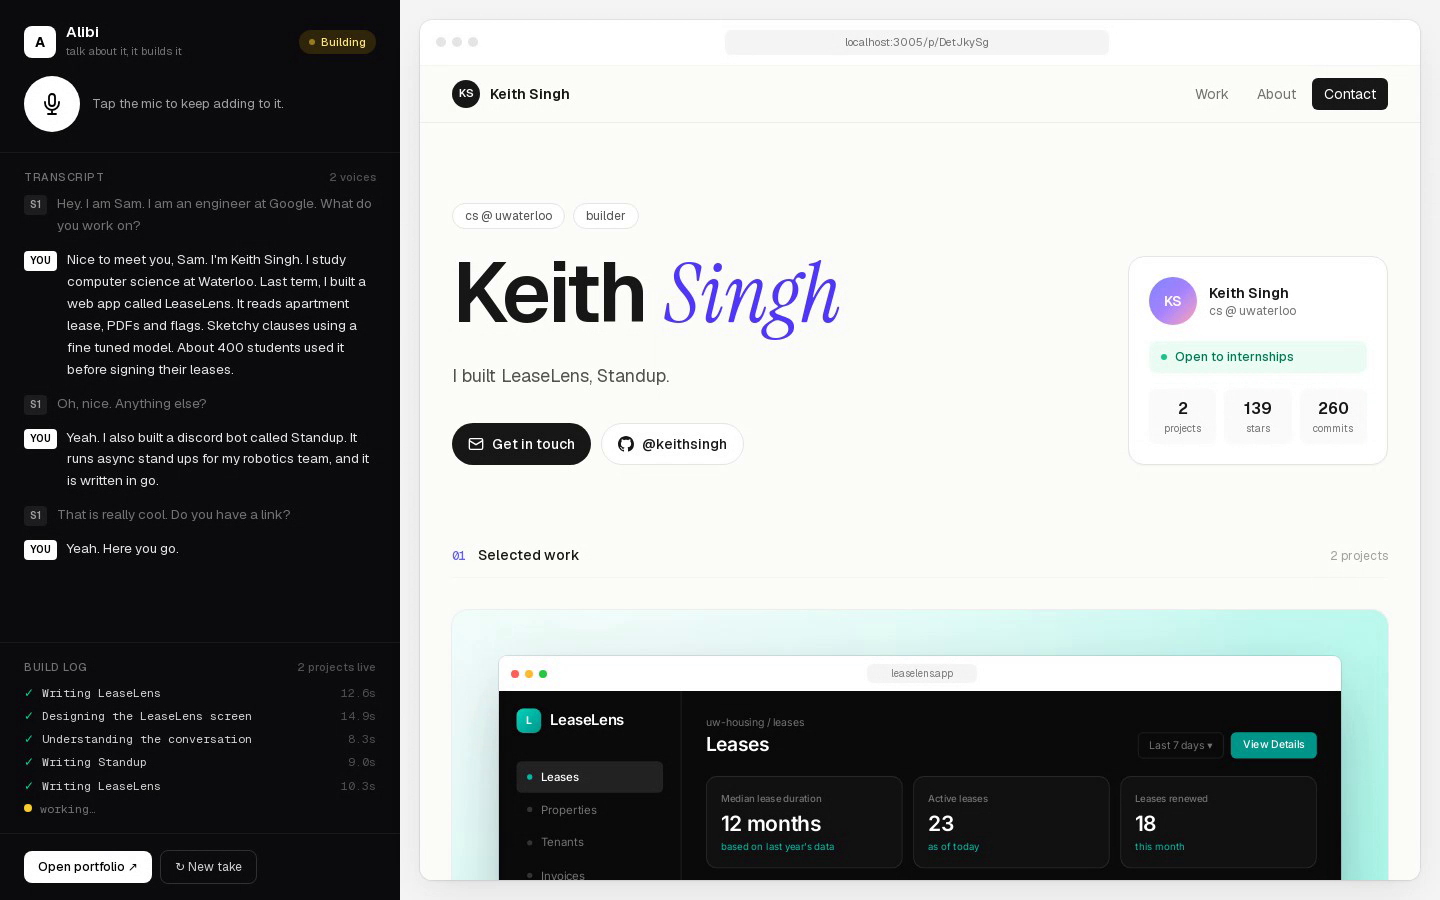
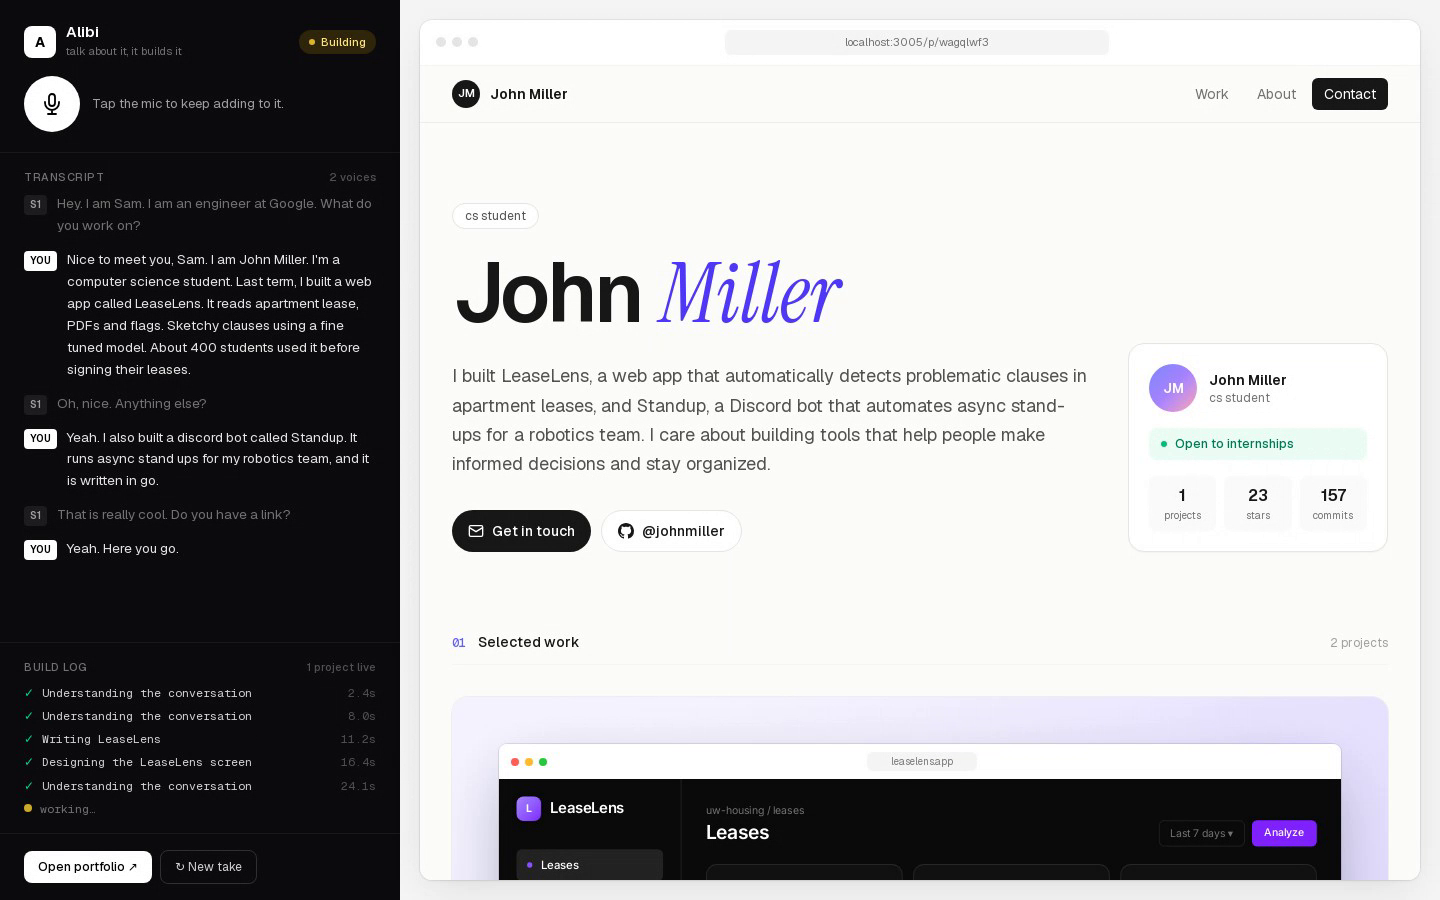
Use a generic persona in demos and sample data
Demo video, README example and capture-screen hint use 'John Miller, a CS
student' instead of a real name and school; sample portfolio and mock kits
drop Waterloo-specific details.

diff --git a/web/lib/fixtures.ts b/web/lib/fixtures.ts
@@ -17,7 +17,7 @@ const SHIPIT_MOCK = `
   </aside>
   <main class="flex-1 p-8">
     <div class="mb-6 flex items-end justify-between">
-      <div><div class="text-sm text-neutral-500">uw-robotics / website</div><h1 class="text-2xl font-semibold text-white">Deployments</h1></div>
+      <div><div class="text-sm text-neutral-500">robotics-club / website</div><h1 class="text-2xl font-semibold text-white">Deployments</h1></div>
       <div class="rounded-md bg-white px-4 py-2 text-sm font-medium text-black">Redeploy</div>
     </div>
     <div class="mb-6 grid grid-cols-3 gap-4">
@@ -45,9 +45,9 @@ const STUDYMATCH_MOCK = `
     <div class="mb-1 text-sm text-stone-500">Fall 2026 · 5 courses</div>
     <h1 class="mb-6 text-3xl font-bold">Your matches this week</h1>
     <div class="grid grid-cols-3 gap-5">
-      <div class="rounded-2xl bg-white p-5 shadow-sm"><div class="mb-3 flex items-center justify-between"><span class="rounded-full bg-indigo-50 px-3 py-1 text-xs font-semibold text-indigo-700">CS 341</span><span class="text-sm font-semibold text-emerald-600">94% match</span></div><div class="mb-1 text-lg font-semibold">Algorithms grind</div><div class="mb-4 text-sm text-stone-500">Tue + Thu · DC library · 7pm</div><div class="flex -space-x-2"><div class="h-8 w-8 rounded-full border-2 border-white bg-rose-300"></div><div class="h-8 w-8 rounded-full border-2 border-white bg-amber-300"></div><div class="h-8 w-8 rounded-full border-2 border-white bg-sky-300"></div><div class="flex h-8 w-8 items-center justify-center rounded-full border-2 border-white bg-stone-100 text-xs">+2</div></div><div class="mt-5 rounded-lg bg-indigo-600 py-2 text-center text-sm font-medium text-white">Join group</div></div>
+      <div class="rounded-2xl bg-white p-5 shadow-sm"><div class="mb-3 flex items-center justify-between"><span class="rounded-full bg-indigo-50 px-3 py-1 text-xs font-semibold text-indigo-700">CS 341</span><span class="text-sm font-semibold text-emerald-600">94% match</span></div><div class="mb-1 text-lg font-semibold">Algorithms grind</div><div class="mb-4 text-sm text-stone-500">Tue + Thu · main library · 7pm</div><div class="flex -space-x-2"><div class="h-8 w-8 rounded-full border-2 border-white bg-rose-300"></div><div class="h-8 w-8 rounded-full border-2 border-white bg-amber-300"></div><div class="h-8 w-8 rounded-full border-2 border-white bg-sky-300"></div><div class="flex h-8 w-8 items-center justify-center rounded-full border-2 border-white bg-stone-100 text-xs">+2</div></div><div class="mt-5 rounded-lg bg-indigo-600 py-2 text-center text-sm font-medium text-white">Join group</div></div>
       <div class="rounded-2xl bg-white p-5 shadow-sm"><div class="mb-3 flex items-center justify-between"><span class="rounded-full bg-amber-50 px-3 py-1 text-xs font-semibold text-amber-700">MATH 239</span><span class="text-sm font-semibold text-emerald-600">88% match</span></div><div class="mb-1 text-lg font-semibold">Graph theory pset crew</div><div class="mb-4 text-sm text-stone-500">Sun · Discord · 3pm</div><div class="flex -space-x-2"><div class="h-8 w-8 rounded-full border-2 border-white bg-lime-300"></div><div class="h-8 w-8 rounded-full border-2 border-white bg-violet-300"></div><div class="h-8 w-8 rounded-full border-2 border-white bg-orange-300"></div></div><div class="mt-5 rounded-lg bg-indigo-600 py-2 text-center text-sm font-medium text-white">Join group</div></div>
-      <div class="rounded-2xl bg-white p-5 shadow-sm"><div class="mb-3 flex items-center justify-between"><span class="rounded-full bg-rose-50 px-3 py-1 text-xs font-semibold text-rose-700">STAT 230</span><span class="text-sm font-semibold text-amber-600">71% match</span></div><div class="mb-1 text-lg font-semibold">Midterm review</div><div class="mb-4 text-sm text-stone-500">Wed · MC 2034 · 6pm</div><div class="flex -space-x-2"><div class="h-8 w-8 rounded-full border-2 border-white bg-teal-300"></div><div class="h-8 w-8 rounded-full border-2 border-white bg-pink-300"></div></div><div class="mt-5 rounded-lg border border-stone-200 py-2 text-center text-sm font-medium">Request invite</div></div>
+      <div class="rounded-2xl bg-white p-5 shadow-sm"><div class="mb-3 flex items-center justify-between"><span class="rounded-full bg-rose-50 px-3 py-1 text-xs font-semibold text-rose-700">STAT 230</span><span class="text-sm font-semibold text-amber-600">71% match</span></div><div class="mb-1 text-lg font-semibold">Midterm review</div><div class="mb-4 text-sm text-stone-500">Wed · Room 2034 · 6pm</div><div class="flex -space-x-2"><div class="h-8 w-8 rounded-full border-2 border-white bg-teal-300"></div><div class="h-8 w-8 rounded-full border-2 border-white bg-pink-300"></div></div><div class="mt-5 rounded-lg border border-stone-200 py-2 text-center text-sm font-medium">Request invite</div></div>
     </div>
     <div class="mt-6 flex items-center gap-3 rounded-xl bg-white p-4 text-sm shadow-sm"><span class="text-lg">⚡</span><span>Matching runs every Sunday at 9pm based on your calendar and course load.</span><span class="ml-auto text-indigo-600">Edit availability →</span></div>
   </main>
@@ -81,14 +81,14 @@ export const SAMPLE_PORTFOLIO: Portfolio = {
   hero: {
     name: "Sam Rivera",
     handle: "samrivera",
-    roles: ["cs @ uwaterloo", "builder", "occasional designer"],
+    roles: ["cs student", "builder", "occasional designer"],
     bio: "I build small tools that people actually keep using: a deploy CLI six student clubs run on, a study-group matcher that made it through a whole semester, and an iOS app that tells you what to cook from a photo of your fridge.",
     currently: [
       "shipping shipit v2 with monorepo support",
       "ta for cs 136",
       "looking for summer 2027 swe internships",
     ],
-    location: "Waterloo, ON",
+    location: "Toronto, ON",
   },
   skills: ["TypeScript", "Go", "Python", "React", "Postgres", "Docker", "PyTorch", "Swift"],
   projects: {

diff --git a/web/lib/mock-kits.ts b/web/lib/mock-kits.ts
@@ -209,7 +209,7 @@ export function renderMock(spec: MockSpec): string {
 // Reference specs: shown on /preview/kits and used as the example in the agent prompt.
 export const KIT_SAMPLES: Record<MockSpec["kit"], MockSpec> = {
   dashboard: {
-    kit: "dashboard", theme: "dark", accent: "emerald", appName: "shipit", context: "uw-robotics / website", heading: "Deployments", action: "Redeploy", user: "sam",
+    kit: "dashboard", theme: "dark", accent: "emerald", appName: "shipit", context: "robotics-club / website", heading: "Deployments", action: "Redeploy", user: "sam",
     nav: ["Deployments", "Projects", "Previews", "Cache", "Settings"],
     stats: [{ label: "Median build", value: "41s", note: "−54% vs no cache" }, { label: "Cache hit rate", value: "87%", note: "last 7 days" }, { label: "Deploys this week", value: "23", note: "6 previews open" }],
     items: [
@@ -225,9 +225,9 @@ export const KIT_SAMPLES: Record<MockSpec["kit"], MockSpec> = {
     nav: ["My groups", "Browse", "Schedule"],
     stats: [{ label: "groups formed", value: "58", note: "" }, { label: "signups", value: "312", note: "" }, { label: "weekly active", value: "140", note: "" }],
     items: [
-      { title: "Algorithms grind", subtitle: "Tue + Thu · DC library · 7pm", meta: "94% match", tag: "CS 341", status: "good" },
+      { title: "Algorithms grind", subtitle: "Tue + Thu · main library · 7pm", meta: "94% match", tag: "CS 341", status: "good" },
       { title: "Graph theory pset crew", subtitle: "Sun · Discord · 3pm", meta: "88% match", tag: "MATH 239", status: "good" },
-      { title: "Midterm review", subtitle: "Wed · MC 2034 · 6pm", meta: "71% match", tag: "STAT 230", status: "warn" },
+      { title: "Midterm review", subtitle: "Wed · Room 2034 · 6pm", meta: "71% match", tag: "STAT 230", status: "warn" },
     ],
     callout: "Matching runs every Sunday at 9pm based on your calendar and course load.",
   },
@@ -256,7 +256,7 @@ export const KIT_SAMPLES: Record<MockSpec["kit"], MockSpec> = {
     callout: "run `dotsync resolve .gitconfig` to pick a side",
   },
   chat: {
-    kit: "chat", theme: "dark", accent: "violet", appName: "Standup", context: "UW Robotics", heading: "Daily standup · Tue Nov 4", action: "standup", user: "maya",
+    kit: "chat", theme: "dark", accent: "violet", appName: "Standup", context: "Robotics Club", heading: "Daily standup · Tue Nov 4", action: "standup", user: "maya",
     nav: ["standups", "general", "mechanical", "software"],
     stats: [{ label: "Submitted", value: "21 / 24", note: "" }, { label: "Blockers", value: "3", note: "" }, { label: "Streak", value: "38 days", note: "" }],
     items: [

diff --git a/web/components/ConversationHome.tsx b/web/components/ConversationHome.tsx
@@ -268,7 +268,7 @@ export default function ConversationHome() {
         <div className="max-w-sm">
          <div className="mx-auto mb-4 grid h-12 w-12 place-items-center rounded-full bg-neutral-100 text-neutral-500"><svg viewBox="0 0 24 24" className="h-5 w-5" fill="none" stroke="currentColor" strokeWidth="1.8" strokeLinecap="round" aria-hidden="true"><rect x="9" y="2" width="6" height="12" rx="3"/><path d="M5 10v1a7 7 0 0014 0v-1M12 18v4M8 22h8"/></svg></div>
          <h1 className="text-lg font-semibold">Your portfolio builds here, live</h1>
-         <p className="mt-2 text-sm leading-relaxed text-neutral-500">Start talking. Try: <span className="text-neutral-700">“I&apos;m Priya, I study CS at Waterloo. Last term I built a web app called LeaseLens…”</span></p>
+         <p className="mt-2 text-sm leading-relaxed text-neutral-500">Start talking. Try: <span className="text-neutral-700">“I&apos;m John, I&apos;m a CS student. Last term I built a web app called LeaseLens…”</span></p>
         </div>
        </div>
       )}

diff --git a/shared/schema.ts b/shared/schema.ts
@@ -39,14 +39,14 @@ export const ProjectSection = z.object({
   commits: z.number().optional(),
   lastPushed: z.string().optional(), // "2 days ago"
   stars: z.number().optional(),
-  repo: z.string().optional(), // "keithk/shipit" (shown as text, never linked)
+  repo: z.string().optional(), // "jmiller/shipit" (shown as text, never linked)
 });
 export type ProjectSection = z.infer<typeof ProjectSection>;
 
 export const Hero = z.object({
   name: z.string(),
-  handle: z.string(), // "keithk"
-  roles: z.array(z.string()), // ["cs @ uwaterloo", "builder"]
+  handle: z.string(), // "jmiller"
+  roles: z.array(z.string()), // ["cs student", "builder"]
   bio: z.string(),
   currently: z.array(z.string()), // "building shipit v2", "looking for summer 2027 internships"
   location: z.string().optional(),

diff --git a/web/lib/prompts/portfolio-guide.md b/web/lib/prompts/portfolio-guide.md
@@ -5,14 +5,14 @@ This guide is included in every generation prompt. It sets the standard the port
 ## Names and identity
 
 - **Person:** use the name exactly as the speaker said it. Never invent a surname. If no name was said, leave it empty. Do not use placeholders like "Alex" or "Your portfolio".
-- **Handle:** lowercase first name plus surname or initial, letters only (for example `priyas`, `samrivera`).
+- **Handle:** lowercase first name plus surname or initial, letters only (for example `jmiller`, `samrivera`).
 - **Project names:** keep the speaker's exact spelling and capitalization ("shipit", "StudyMatch"). Speech-to-text may split or merge words; join them back the way a product would be written ("study match" becomes "StudyMatch").
 - **Unnamed projects:** if a project has no name, invent a short, brandable one-word name that fits the product (for example "Ledgerly" or "Repwise"). Never use descriptive labels like "Expense tracker app".
 - **Separate projects:** only create one when the speaker clearly describes another thing they built. A feature ("it also sends alerts") belongs to the existing project.
 
 ## Hero
 
-- **roles:** 2–3 short lowercase labels in the style "cs @ uwaterloo", "builder", "ml + infra", "occasional designer". Use the school or company if it was said.
+- **roles:** 2–3 short lowercase labels in the style "cs student", "builder", "ml + infra", "occasional designer". Use the school or company if it was said.
 - **bio:** two sentences in the first person. Name the projects and what makes them notable, with specifics. Don't open with clichés like "passionate", "I build small, useful things" or "tech enthusiast".
   - Shape: one sentence naming what you build and who uses it, with one concrete number per project, then one sentence on what you care about. Write it fresh from this speaker's projects.
 - **currently:** 2–3 short lowercase items, each concrete: "shipping shipit v2 with monorepo support", "ta for cs 136", "looking for summer 2027 swe internships". Never write "studying computer science" or "building apps".

diff --git a/README.md b/README.md
@@ -29,7 +29,7 @@ npm run build:web
 npm run start:web
 ```
 
-Open http://localhost:3000 in Chrome, click the mic and start talking. Something like: "I'm Priya, I study CS at Waterloo. Last term I built a web app called LeaseLens that flags sketchy clauses in lease PDFs…"
+Open http://localhost:3000 in Chrome, click the mic and start talking. Something like: "I'm John, I'm a CS student. Last term I built a web app called LeaseLens that flags sketchy clauses in lease PDFs…"
 
 `/p/demo-backup` has a finished example portfolio, and `/preview` shows all the templates.
 
